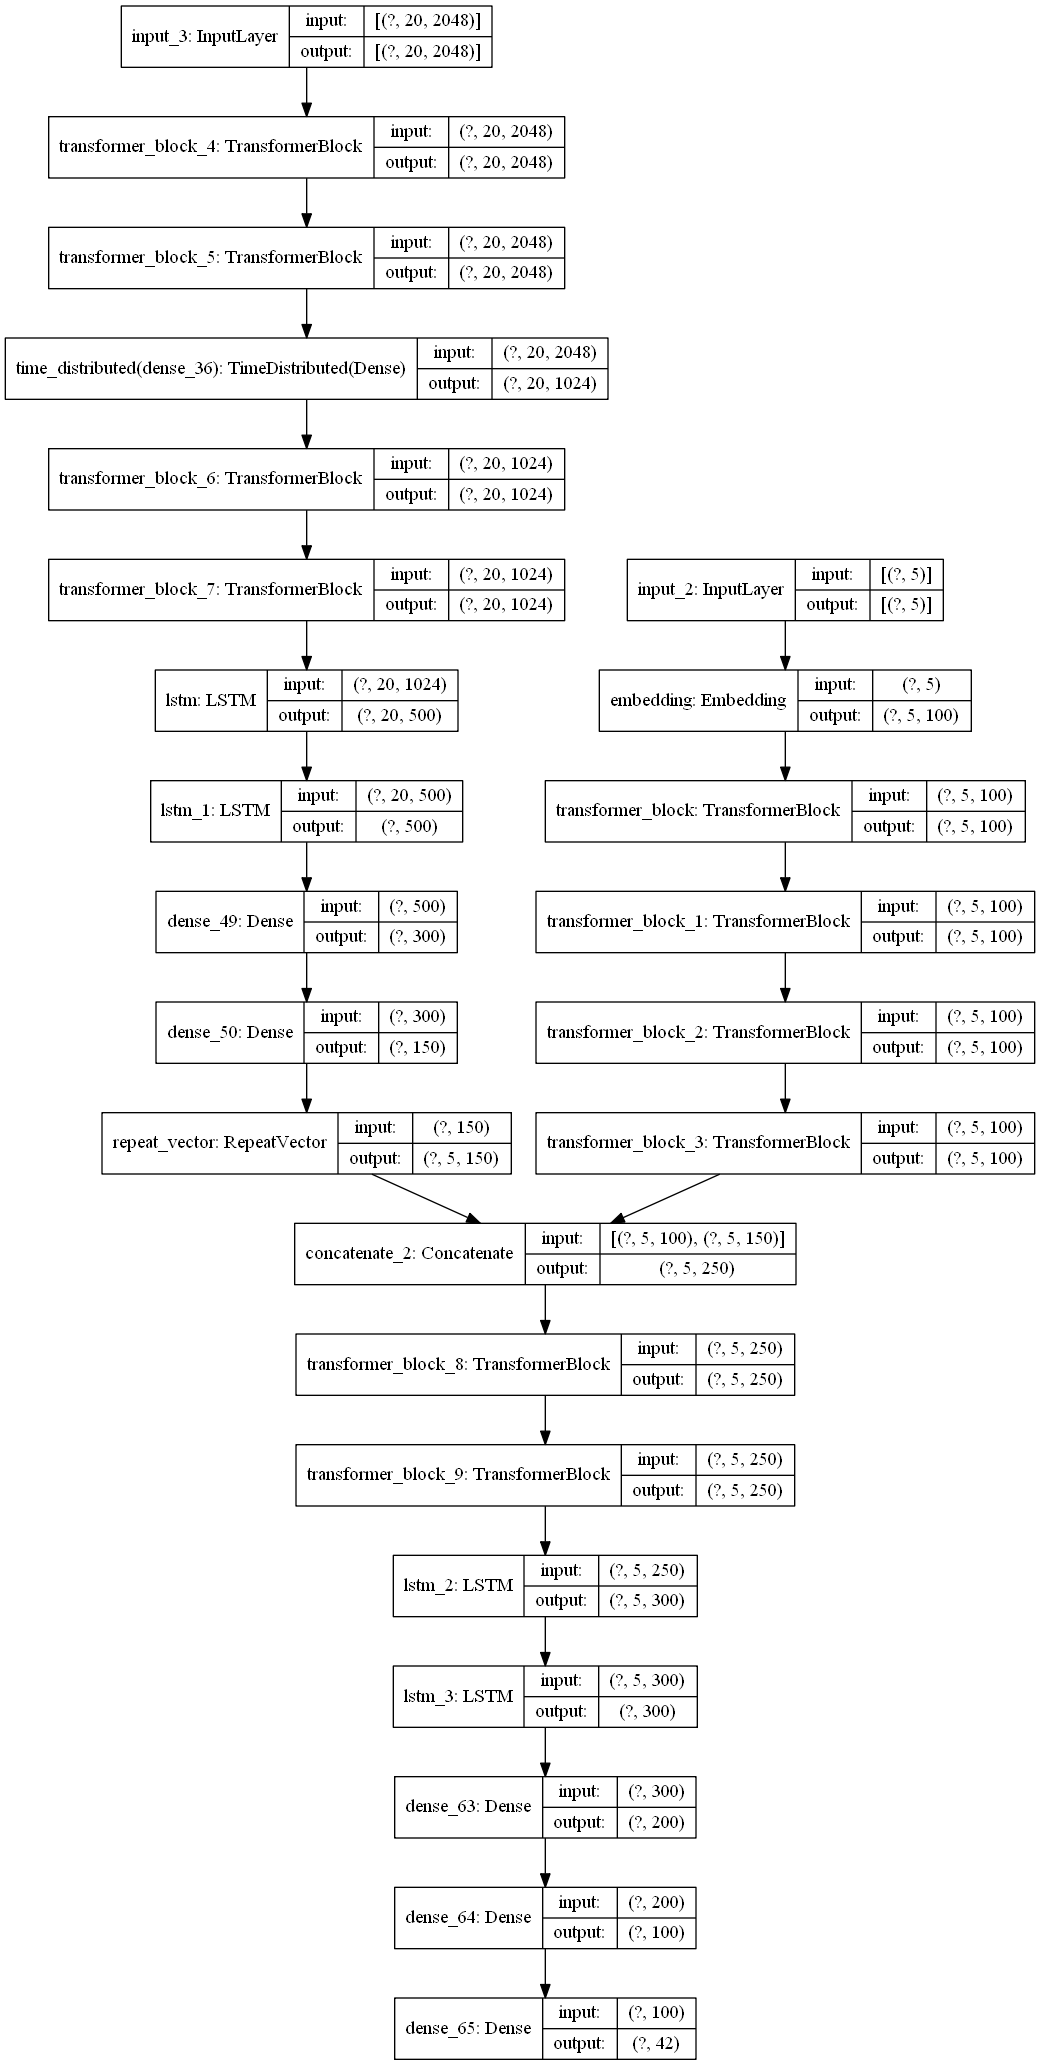
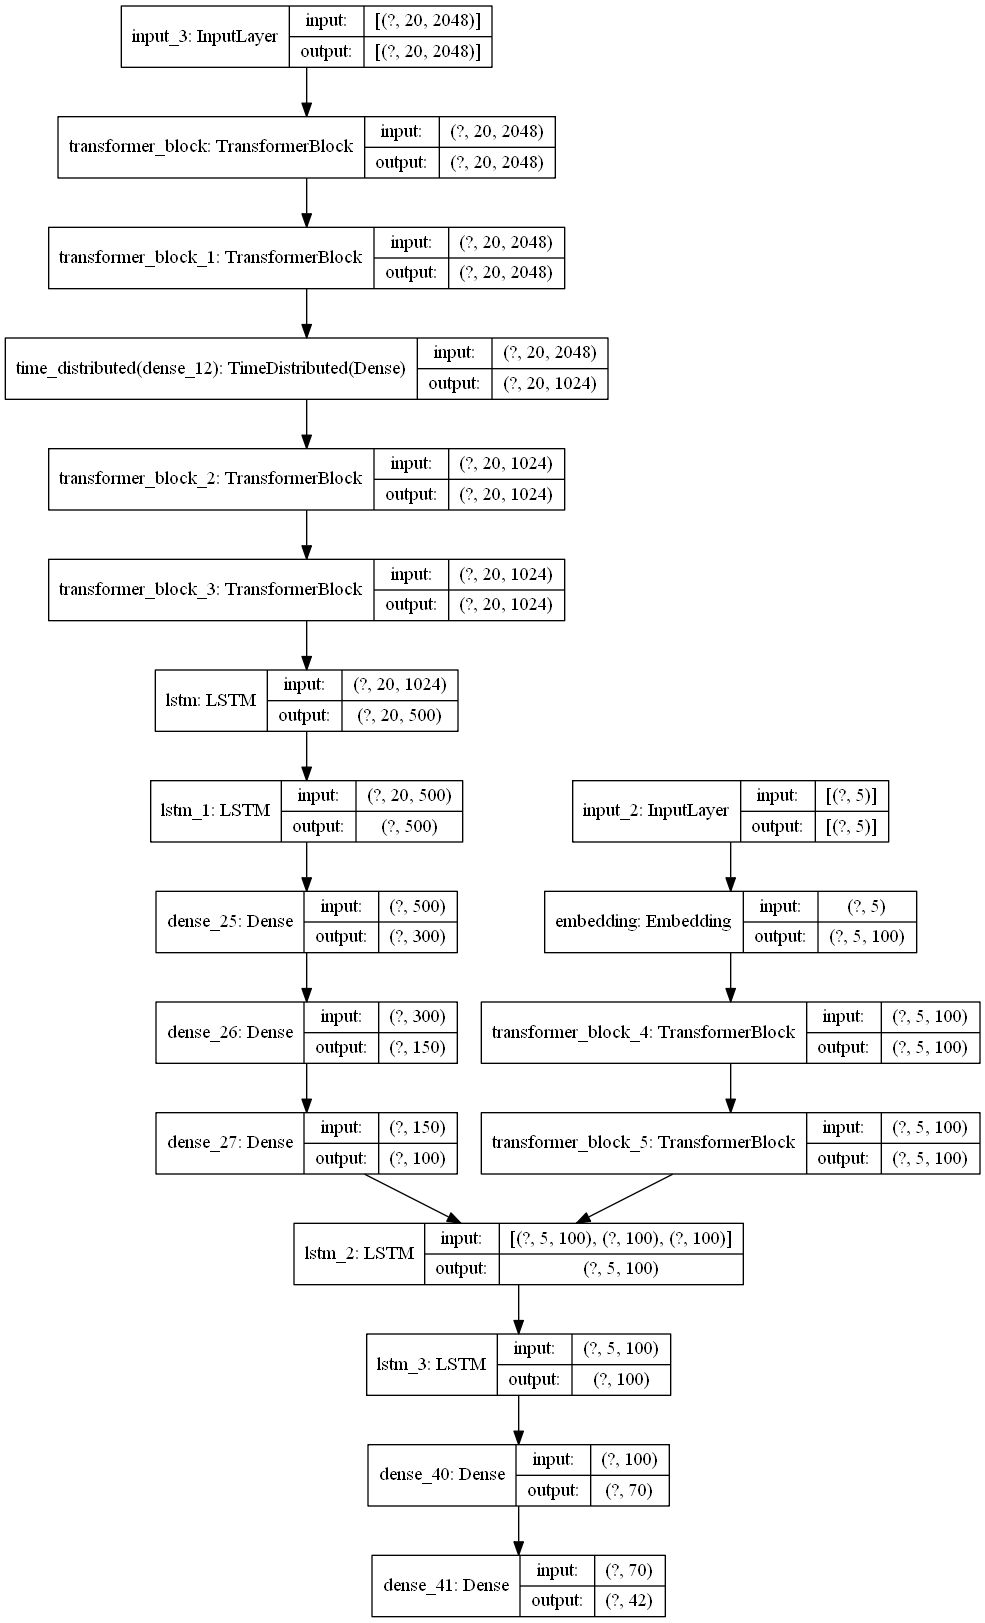
updated model

Changed region(s): [[0.0, 0.0, 1.0, 1.0], [0.1523, 0.6778, 0.2132, 0.7086], [0.3046, 0.7702, 0.335, 0.801]]

diff --git a/src/vmodel.py b/src/vmodel.py
@@ -277,16 +277,6 @@ class VModel:
         #__________________________Inputs
         input_1 = Input(shape = (self.params['CAPTION_LEN']))
         input_2 = Input(shape = (self.params['FRAMES_LIMIT'],frame_emb))
-        
-
-        #____________caption layers
-        x_1 = Embedding(self.params['VOCAB_SIZE'], word_emb)(input_1) 
-        x_1 = TransformerBlock(embed_dim= word_emb, num_heads= 10, ff_dim= int(word_emb*4), dropout=0.0, training= self.params['train'])(x_1)
-        x_1 = TransformerBlock(embed_dim= word_emb, num_heads= 5, ff_dim= int(word_emb*4), dropout=0.0, training= self.params['train'])(x_1)
-        x_1 = TransformerBlock(embed_dim= word_emb, num_heads= 5, ff_dim= int(word_emb*4), dropout=0.1, training= self.params['train'])(x_1)
-        x_1 = TransformerBlock(embed_dim= word_emb, num_heads= 5, ff_dim= int(word_emb*2), dropout=0.0, training= self.params['train'])(x_1)
-        #x_1 = LSTM(150, return_sequences= True)(x_1)
-        
 
 
 
@@ -301,9 +291,28 @@ class VModel:
         x_2 = LSTM(500, return_sequences = False)(x_2)
         x_2 = Dense(300, activation = 'relu')(x_2)
         x_2 = Dense(150, activation = 'relu')(x_2)
-        x_2 = RepeatVector(self.params['CAPTION_LEN'])(x_2)
+        x_2 = Dense(word_emb)(x_2)
+        initial_state = [x_2, x_2]
+        #x_2 = RepeatVector(self.params['CAPTION_LEN'])(x_2)
 
 
+
+        #____________caption layers
+        x_1 = Embedding(self.params['VOCAB_SIZE'], word_emb)(input_1) 
+        x_1 = TransformerBlock(embed_dim= word_emb, num_heads= 10, ff_dim= int(word_emb*4), dropout=0.0, training= self.params['train'])(x_1)
+        x_1 = TransformerBlock(embed_dim= word_emb, num_heads= 5, ff_dim= int(word_emb*2), dropout=0.0, training= self.params['train'])(x_1)
+        
+        x_1 = LSTM(word_emb, return_sequences= True)(inputs = x_1, initial_state = initial_state)
+        x_1 = LSTM(word_emb, return_sequences= False)( x_1)
+        x_1 = Dense(70)(x_1)
+        x_1 = Dense(vocab_size)(x_1)
+        
+
+
+
+
+
+        '''
         
         #___________concatenated layer
         c = Concatenate(2)([x_1, x_2])
@@ -316,7 +325,9 @@ class VModel:
         c = Dense(vocab_size, activation = 'softmax')(c)
 
         self.model = Model(inputs = [input_1, input_2], outputs = c) 
-        
+        '''
+        self.model = Model(inputs = [input_1, input_2], outputs = x_1)
+
         self.plot_model()
         print("model built")
 
